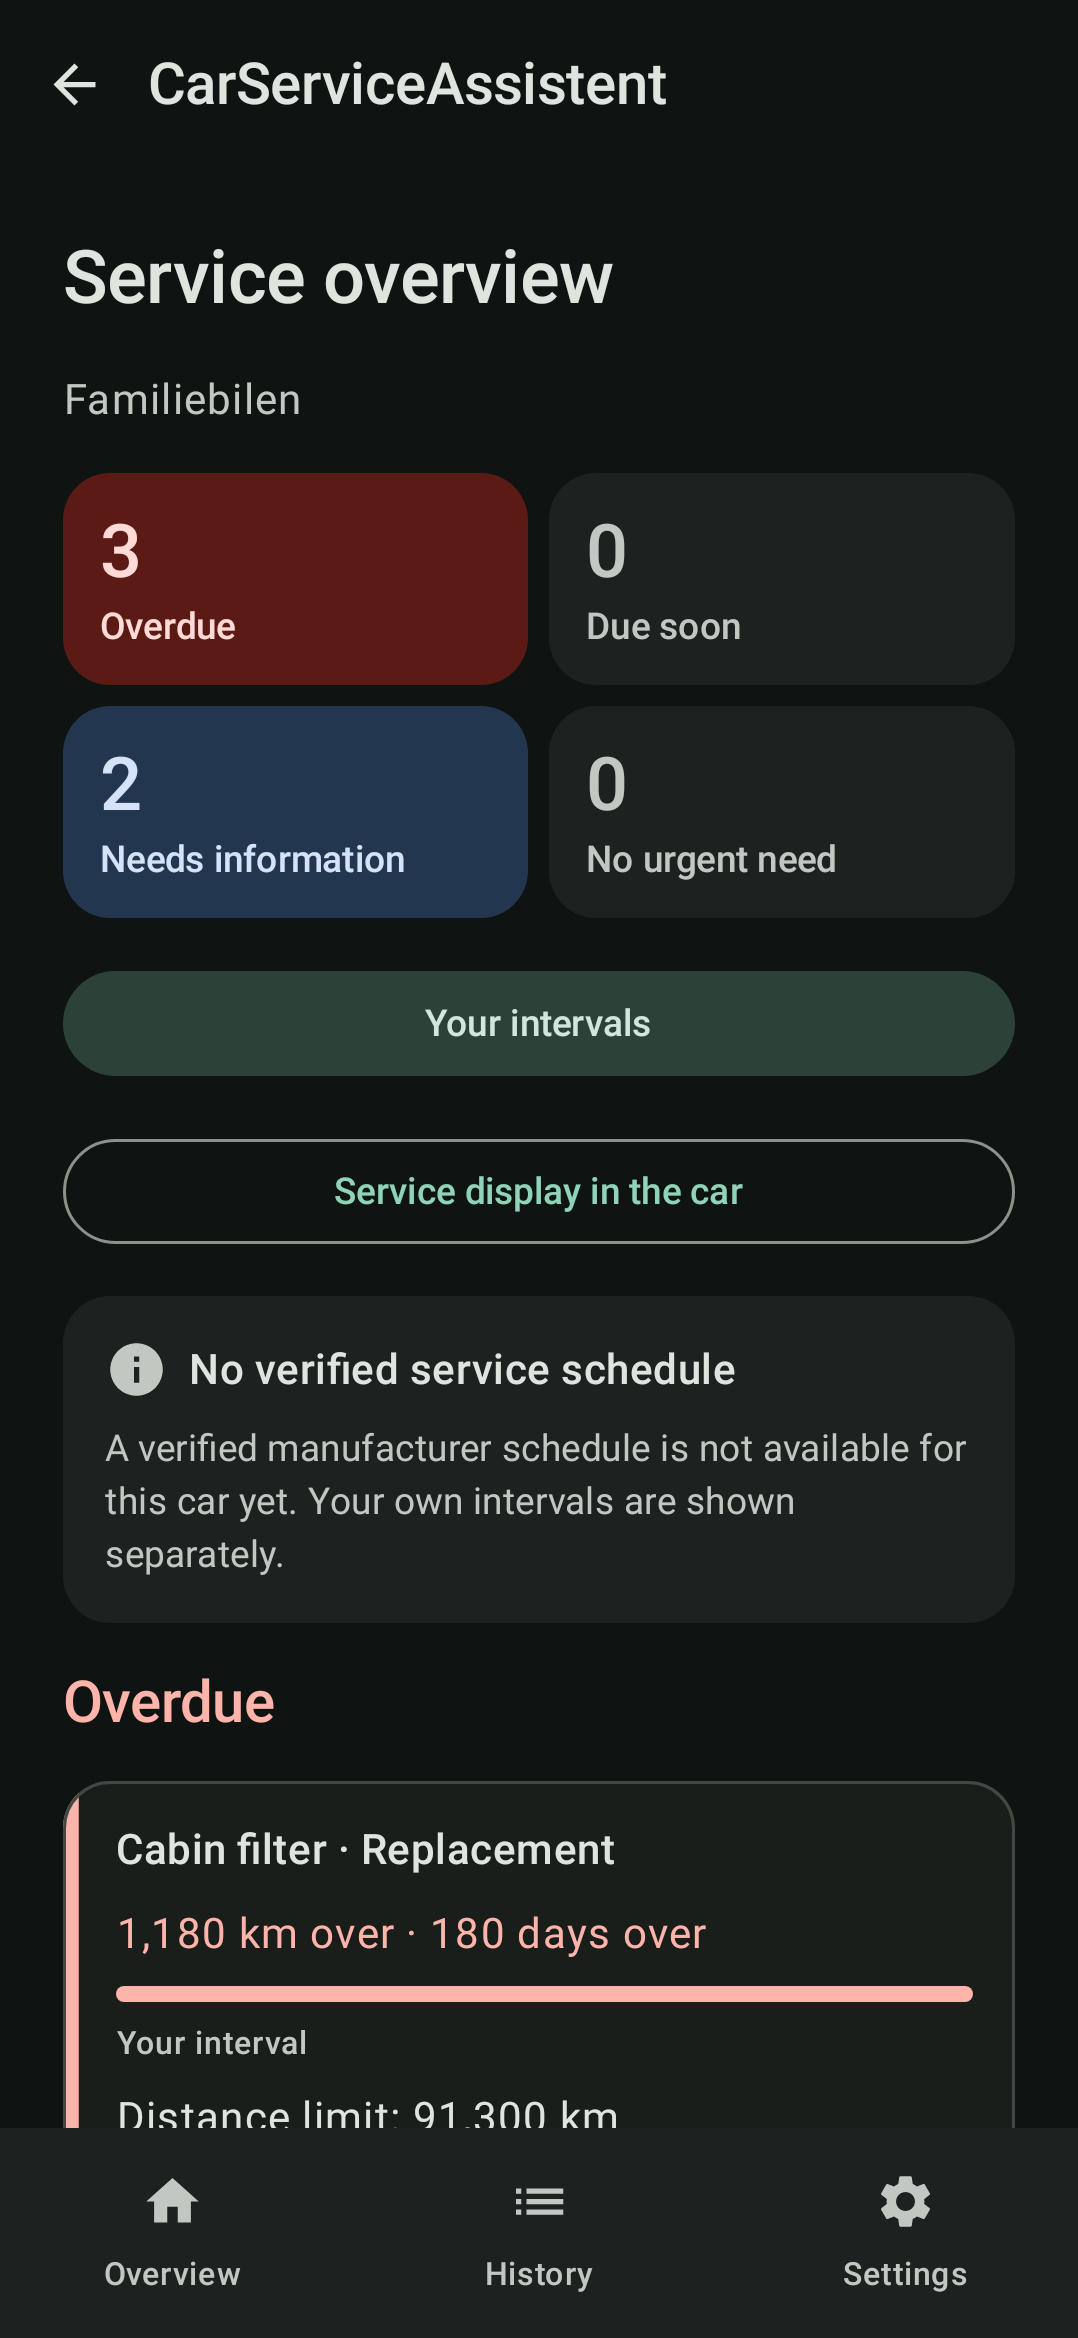
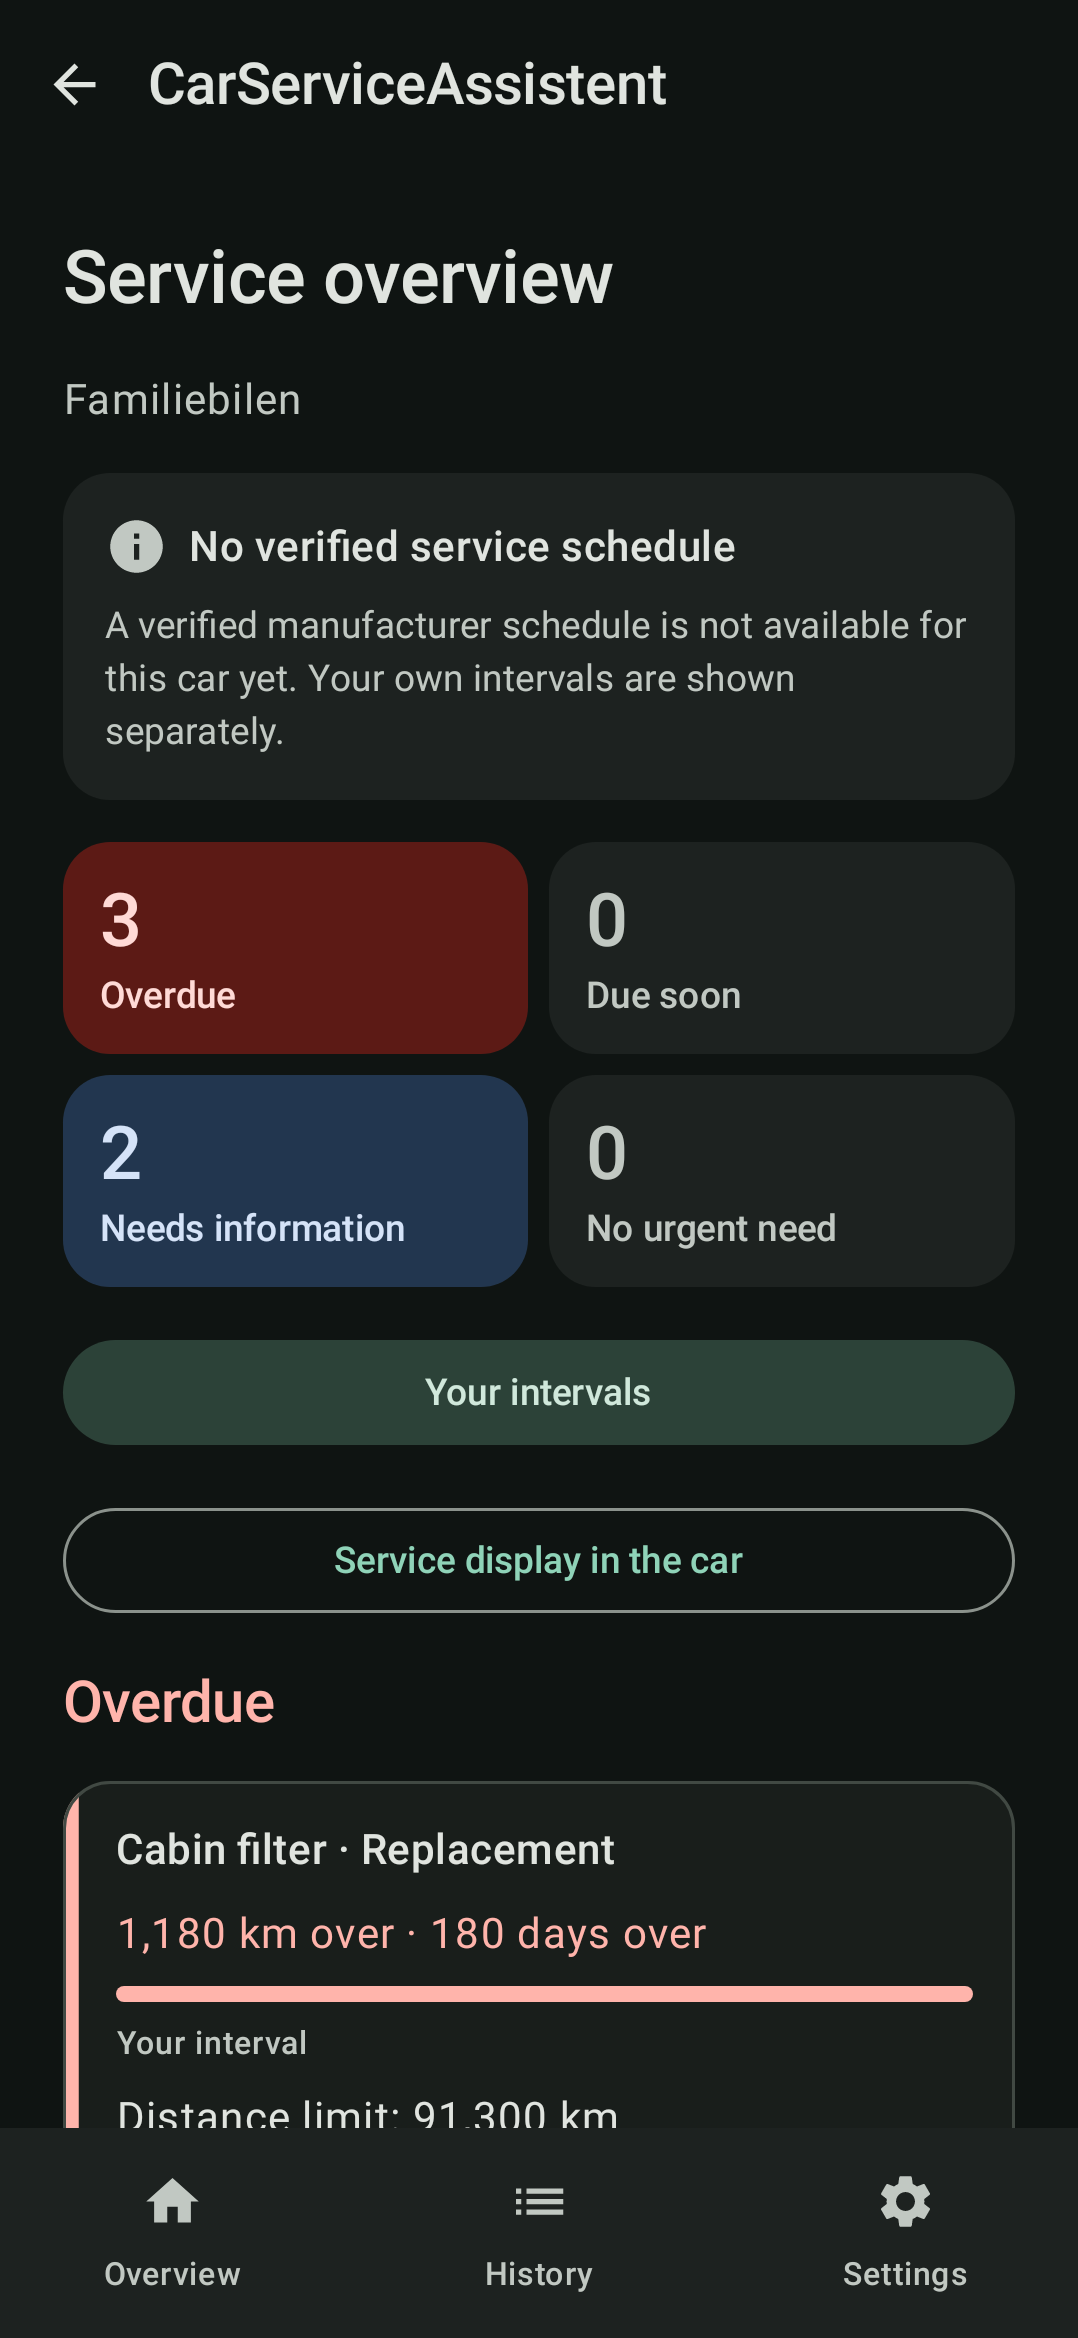
fix: keep the schedule notice first on the service overview; restart check follows the new layout
Claude-Session: https://claude.ai/code/session_01HjoZJ8yKa7bY5hk5TaW4g1

Changed region(s): [[0.0612, 0.1873, 0.949, 0.6869], [0.9184, 0.6557, 0.949, 0.6869], [0.9184, 0.4996, 0.949, 0.5308]]

diff --git a/app/src/main/java/app/servicepassport/android/ui/DashboardPages.kt b/app/src/main/java/app/servicepassport/android/ui/DashboardPages.kt
@@ -119,10 +119,11 @@ private fun originResource(origin: TaskOrigin): Int = when (origin) {
         Button(onClick = retry) { Text(stringResource(R.string.retry)) }
         return@Page
     }
+    // The missing manufacturer schedule is the first thing to know about every figure below.
+    CatalogNotice(dashboard, go)
     DashboardCounts(dashboard)
     FilledTonalButton(onClick = { go("intervals") }, modifier = Modifier.fillMaxWidth().testTag("manage_intervals")) { Text(stringResource(R.string.your_intervals)) }
     OutlinedButton(onClick = { go("indicator") }, modifier = Modifier.fillMaxWidth().testTag("open_indicator")) { Text(stringResource(R.string.indicator_title)) }
-    CatalogNotice(dashboard, go)
     if (dashboard.tasks.isEmpty()) NoteCard(stringResource(R.string.no_intervals_yet))
     Category.entries.forEach { category ->
         val tasks = dashboard.tasks.filter { it.category == category }

diff --git a/scripts/check_process_restart.py b/scripts/check_process_restart.py
@@ -43,10 +43,10 @@ def tap(root, label):
 
 
 def dashboard_counts(text):
-    # Compose may expose a card's label/value separately or as one merged accessibility node.
+    # Each tile shows the number above its label. Compose may expose them separately or as one merged node.
     for label in ["Forfalt", "Snart frist", "Trenger opplysninger", "Ingen hast"]:
-        if not any((value == label and i + 1 < len(text) and text[i + 1] == "1")
-                   or re.fullmatch(re.escape(label) + r"\s+1", value)
+        if not any((value == label and i > 0 and text[i - 1] == "1")
+                   or re.fullmatch(r"1\s+" + re.escape(label), value)
                    for i, value in enumerate(text)):
             return False
     return True
@@ -61,7 +61,7 @@ root = wait_for(
     "Fresh process did not restore the profile, explicit current reading and Bokmål UI",
 )
 (OUT / "overview-no.png").write_bytes(adb("exec-out", "screencap", "-p"))
-tap(root, "Serviceoversikt")
+tap(root, "Se alle")  # the link next to the "Serviceoversikt" heading
 wait_for(
     lambda text: "Ingen bekreftet serviceplan" in text and dashboard_counts(text),
     "Fresh process did not restore all four driver intervals and their separate categories",
